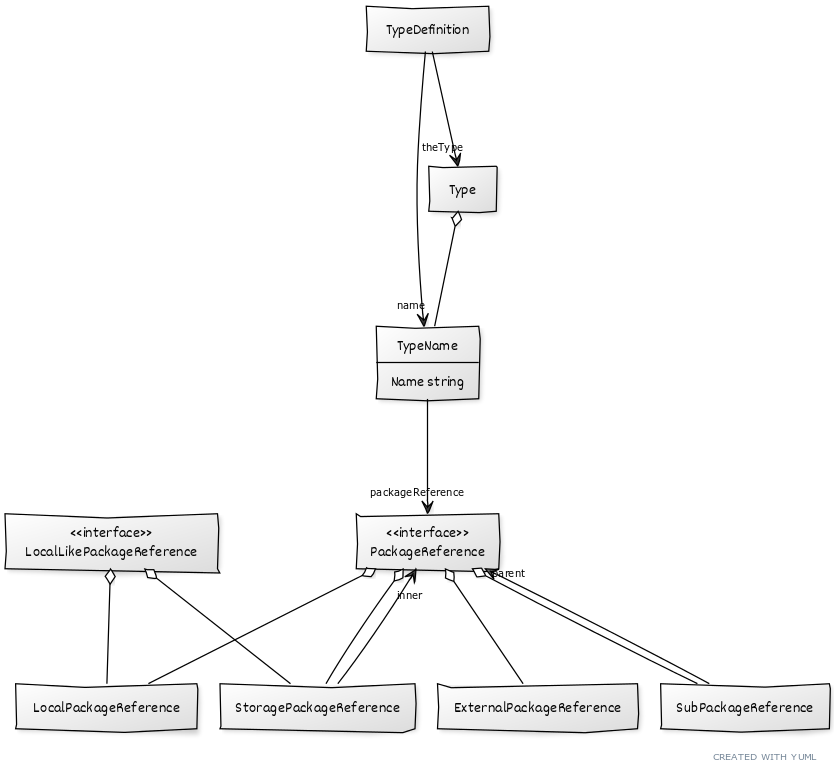
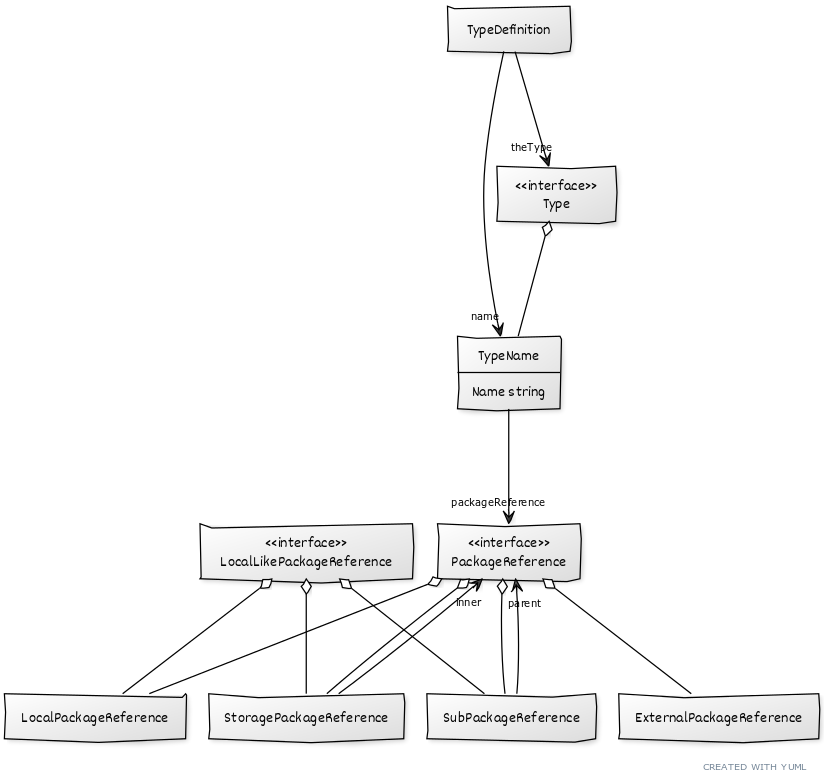
Update based on PR review.

Changed region(s): [[0.0, 0.0, 1.0, 0.9935], [0.0, 0.652, 0.0303, 0.6831]]

diff --git a/docs/hugo/content/design/ADR-2023-07-PackageReferences/_index.md b/docs/hugo/content/design/ADR-2023-07-PackageReferences/_index.md
@@ -68,6 +68,7 @@ Add `SubPackageReference` as a new implementation of `PackageReference`, and par
 [TypeDefinition]--name >[TypeName]
 [TypeDefinition]--theType >[Type]
 
+[<<interface>>;Type]
 [Type]<>--[TypeName]
 
 [<<interface>>;LocalLikePackageReference]<>--[LocalPackageReference]
@@ -77,6 +78,7 @@ Add `SubPackageReference` as a new implementation of `PackageReference`, and par
 
 [PackageReference]<>--[SubPackageReference]
 [SubPackageReference]-parent >[PackageReference]
+[LocalLikePackageReference]<>--[SubPackageReference]
 
 -->
 
@@ -104,6 +106,7 @@ Not only will this be easier to understand, but it should streamline some parts 
 [TypeDefinition]--name >[TypeName]
 [TypeDefinition]--theType >[Type]
 
+[<<interface>>;Type]
 [Type]<>--[TypeName]
 [Type]<>--[ExternalTypeName]
 
@@ -111,6 +114,10 @@ Not only will this be easier to understand, but it should streamline some parts 
 [SubPackageReference]-parent >[PackageReference]
 
 [ExternalTypeName;Name string]--packageReference >[ExternalPackageReference]
+
+[<<interface>>;TypeNamer]
+[TypeNamer]<>--[TypeName]
+[TypeNamer]<>--[ExternalTypeName]
 
 -->
 
@@ -138,26 +145,29 @@ As for Option 4, but we also rename types to better reflect the new semantics. G
 [InternalPackageReference]<>--[ResourcePackageReference]
 [InternalPackageReference]<>--[StoragePackageReference]
 [InternalPackageReference]<>--[SubPackageReference]
-
 [InternalTypeName;Name string]--packageReference >[InternalPackageReference]
-
 [TypeDefinition]--name >[InternalTypeName]
 [TypeDefinition]--theType >[Type]
 
+[<<interface>>;Type]
 [Type]<>--[InternalTypeName]
 [Type]<>--[ExternalTypeName]
-
 [StoragePackageReference]-inner >[InternalPackageReference]
 [SubPackageReference]-parent >[InternalPackageReference]
-
 [ExternalTypeName;Name string]--packageReference >[ExternalPackageReference]
+
+[<<interface>>;TypeName]
+[TypeName]<>--[InternalTypeName]
+[TypeName]<>--[ExternalTypeName]
 
 -->
 
 
 ## Status
 
-Option #4 proposed.
+Option #4 confirmed.
+
+We're concerned that the amount of work required might be more than anticipated and recommend that implementation be done in small increments. In this way, we'll end up within something akin to Option 2 if things don't go smoothly.
 
 ## Consequences
 
